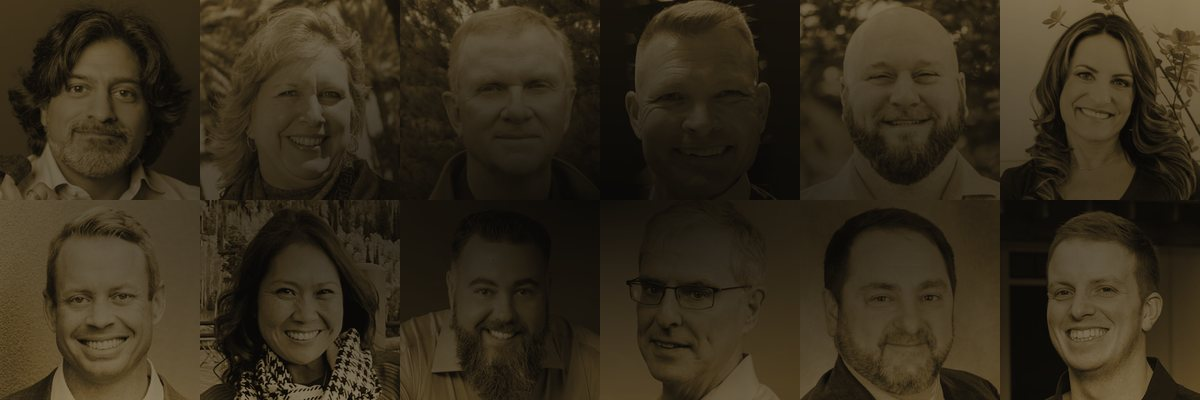
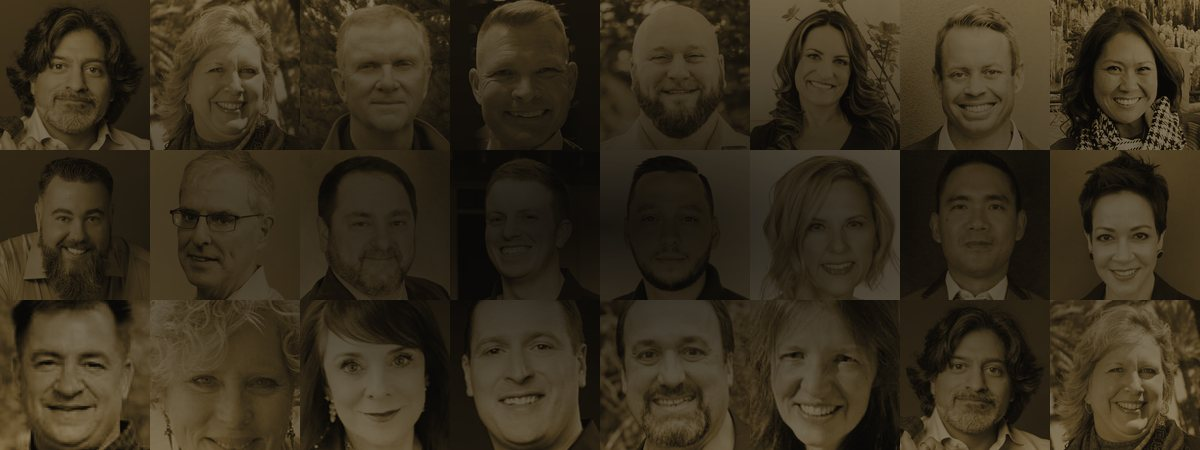
Double header to 24 members; real full-height host photos, name/title left
- Header collage rebuilt as an 8x3 grid (24 real Hardy Club members),
  gold-on-black duotone (header now 600x225).
- Event host placeholders replaced with real member portraits, shown
  full-height and flush to the card's right edge.
- Host name/title moved back to the left column as two lines (no "Hosted by"
  eyebrow). Added host portrait crops in hc-hosts/ + source photos in
  hc-members/.

diff --git a/bmcc-weekly-email.html b/bmcc-weekly-email.html
@@ -40,8 +40,9 @@
   EVENT CARD FIELDS (make the card a repeater/loop):
     day_date_time (e.g. "Tue · Jul 8 · 12:00 PM ET"), title, description,
     rsvp_url, host_name, host_title, host_photo_url
-    → host_photo_url is a square headshot shown at 150x150 (supply 2x = 320x320),
-      sits on the RIGHT of the card, vertically centered. NOT a circle.
+    → host_photo_url is a portrait shown FULL-HEIGHT, flush to the card's right
+      edge (background-cover, ~3:4, supply 390x520+). host_name/host_title render
+      as two lines in the LEFT column. NOT a circle.
   ============================================================================
 -->
 <!DOCTYPE html>
@@ -112,15 +113,15 @@
         </table>
 
         <!-- ===================== [2] HEADER — HARDY CLUB (photo collage) ===================== -->
-        <!-- Bulletproof background image: collage of member headshots behind the mark.
-             DEV: header-collage.jpg is 1200x400 (displayed 600x200). The <v:image>/<v:rect>
+        <!-- Bulletproof background image: 24-member headshot collage behind the mark.
+             DEV: header-collage.jpg is 1200x450 (displayed 600x225). The <v:image>/<v:rect>
              MSO block is the Outlook fallback — keep both the `background` attr and the VML. -->
         <table role="presentation" width="600" cellpadding="0" cellspacing="0" border="0" class="email-container" style="width:600px; max-width:600px;">
           <tr>
-            <td background="https://fnxstudio.github.io/darren-hardy/header-collage.jpg" bgcolor="#0f0d14" valign="middle" height="200" style="background-image:url('https://fnxstudio.github.io/darren-hardy/header-collage.jpg'); background-position:center center; background-size:cover; background-color:#0f0d14;">
+            <td background="https://fnxstudio.github.io/darren-hardy/header-collage.jpg" bgcolor="#0f0d14" valign="middle" height="225" style="background-image:url('https://fnxstudio.github.io/darren-hardy/header-collage.jpg'); background-position:center center; background-size:cover; background-color:#0f0d14;">
               <!--[if mso]>
-              <v:image xmlns:v="urn:schemas-microsoft-com:vml" fill="true" stroke="false" style="width:600px;height:200px;" src="https://fnxstudio.github.io/darren-hardy/header-collage.jpg" />
-              <v:rect xmlns:v="urn:schemas-microsoft-com:vml" fill="false" stroke="false" style="position:absolute;width:600px;height:200px;top:0;left:0;">
+              <v:image xmlns:v="urn:schemas-microsoft-com:vml" fill="true" stroke="false" style="width:600px;height:225px;" src="https://fnxstudio.github.io/darren-hardy/header-collage.jpg" />
+              <v:rect xmlns:v="urn:schemas-microsoft-com:vml" fill="false" stroke="false" style="position:absolute;width:600px;height:225px;top:0;left:0;">
               <v:textbox inset="0,0,0,0"><![endif]-->
               <div>
                 <table role="presentation" width="100%" cellpadding="0" cellspacing="0" border="0">
@@ -196,23 +197,28 @@
             <td class="px" style="padding:14px 40px;">
               <table role="presentation" width="100%" cellpadding="0" cellspacing="0" border="0" style="background-color:#f5f5f5; border-left:3px solid #c9a96a;">
                 <tr>
-                  <!-- DETAILS (left) -->
-                  <td class="stack" valign="top" style="padding:20px 22px; font-family:'Inter',Arial,Helvetica,sans-serif;">
+                  <!-- DETAILS (left) — host name/title (2 lines) lives here -->
+                  <td class="stack" valign="top" style="padding:22px 24px 22px 22px; font-family:'Inter',Arial,Helvetica,sans-serif;">
                     <div style="font-size:11px; font-weight:700; letter-spacing:0.14em; text-transform:uppercase; color:#9a7a33;">Tue &middot; Jul 8 &middot; 12:00 PM ET</div>
                     <div style="font-size:18px; font-weight:700; color:#141414; line-height:1.3; padding-top:8px;">Weekly Momentum Call</div>
                     <div style="font-size:14px; line-height:1.6; color:#444444; padding-top:10px;">Kick off the week with the one focus that will move your business most — open to every Hardy Club member.</div>
-                    <div style="padding-top:18px;">
+                    <div style="padding-top:16px;">
+                      <div style="font-size:15px; font-weight:700; color:#141414;">Dave Koepsell</div>
+                      <div style="font-size:12px; font-weight:500; color:#6a6a6a; padding-top:2px;">Hardy Club Member</div>
+                    </div>
+                    <div style="padding-top:16px;">
                       <a href="{{ event.rsvp_url }}" style="display:inline-block; padding:11px 20px; border:1px solid #c9a96a; font-family:'Inter',Arial,Helvetica,sans-serif; font-size:11px; font-weight:700; letter-spacing:0.2em; text-transform:uppercase; color:#9a7a33; white-space:nowrap; text-decoration:none;">RSVP &nbsp;&rarr;</a>
                     </div>
                   </td>
-                  <!-- HOST PHOTO + hosted-by (right; evens the two sides) -->
-                  <td class="stack" width="210" valign="top" align="center" style="width:210px; padding:20px 18px;">
-                    <img src="https://placehold.co/360x360/e9e4f2/9a7a33?text=Host+Photo" width="180" height="180" alt="Darren Hardy" style="display:block; width:180px; height:180px; border-radius:4px; object-fit:cover; margin:0 auto;">
-                    <div style="padding-top:14px; text-align:center;">
-                      <div style="font-size:10px; font-weight:600; letter-spacing:0.2em; text-transform:uppercase; color:#9a7a33;">Hosted by</div>
-                      <div style="font-size:15px; font-weight:700; color:#141414; padding-top:3px;">Darren Hardy</div>
-                      <div style="font-size:12px; font-weight:500; color:#6a6a6a; padding-top:2px;">Founder, Hardy Club</div>
-                    </div>
+                  <!-- HOST PHOTO — full height, flush to the right edge -->
+                  <td class="stack" width="190" valign="top" background="https://fnxstudio.github.io/darren-hardy/hc-hosts/host-dave.jpg"
+                      style="width:190px; padding:0; background-image:url('https://fnxstudio.github.io/darren-hardy/hc-hosts/host-dave.jpg'); background-position:center top; background-size:cover; background-color:#e9e4f2;">
+                    <!--[if mso]>
+                    <v:rect xmlns:v="urn:schemas-microsoft-com:vml" stroke="false" style="width:190px;height:300px;">
+                      <v:fill type="frame" src="https://fnxstudio.github.io/darren-hardy/hc-hosts/host-dave.jpg" origin="0.5,0" position="0.5,0" />
+                    </v:rect>
+                    <![endif]-->
+                    <div style="min-height:260px; font-size:0; line-height:0;">&nbsp;</div>
                   </td>
                 </tr>
               </table>
@@ -225,22 +231,27 @@
             <td class="px" style="padding:14px 40px 8px 40px;">
               <table role="presentation" width="100%" cellpadding="0" cellspacing="0" border="0" style="background-color:#f5f5f5; border-left:3px solid #c9a96a;">
                 <tr>
-                  <td class="stack" valign="top" style="padding:20px 22px; font-family:'Inter',Arial,Helvetica,sans-serif;">
+                  <td class="stack" valign="top" style="padding:22px 24px 22px 22px; font-family:'Inter',Arial,Helvetica,sans-serif;">
                     <div style="font-size:11px; font-weight:700; letter-spacing:0.14em; text-transform:uppercase; color:#9a7a33;">Thu &middot; Jul 10 &middot; 2:00 PM ET</div>
                     <div style="font-size:18px; font-weight:700; color:#141414; line-height:1.3; padding-top:8px;">Open Q&amp;A: Ask Me Anything</div>
                     <div style="font-size:14px; line-height:1.6; color:#444444; padding-top:10px;">Bring any question — strategy, mindset, or execution — and get a straight answer live.</div>
-                    <div style="padding-top:18px;">
+                    <div style="padding-top:16px;">
+                      <div style="font-size:15px; font-weight:700; color:#141414;">Kristi Lopez</div>
+                      <div style="font-size:12px; font-weight:500; color:#6a6a6a; padding-top:2px;">Hardy Club Member</div>
+                    </div>
+                    <div style="padding-top:16px;">
                       <a href="#" style="display:inline-block; padding:11px 20px; border:1px solid #c9a96a; font-family:'Inter',Arial,Helvetica,sans-serif; font-size:11px; font-weight:700; letter-spacing:0.2em; text-transform:uppercase; color:#9a7a33; white-space:nowrap; text-decoration:none;">RSVP &nbsp;&rarr;</a>
                     </div>
                   </td>
-                  <!-- HOST PHOTO + hosted-by (right; evens the two sides) -->
-                  <td class="stack" width="210" valign="top" align="center" style="width:210px; padding:20px 18px;">
-                    <img src="https://placehold.co/360x360/e9e4f2/9a7a33?text=Host+Photo" width="180" height="180" alt="Darren Hardy" style="display:block; width:180px; height:180px; border-radius:4px; object-fit:cover; margin:0 auto;">
-                    <div style="padding-top:14px; text-align:center;">
-                      <div style="font-size:10px; font-weight:600; letter-spacing:0.2em; text-transform:uppercase; color:#9a7a33;">Hosted by</div>
-                      <div style="font-size:15px; font-weight:700; color:#141414; padding-top:3px;">Darren Hardy</div>
-                      <div style="font-size:12px; font-weight:500; color:#6a6a6a; padding-top:2px;">Founder, Hardy Club</div>
-                    </div>
+                  <!-- HOST PHOTO — full height, flush to the right edge -->
+                  <td class="stack" width="190" valign="top" background="https://fnxstudio.github.io/darren-hardy/hc-hosts/host-kristi.jpg"
+                      style="width:190px; padding:0; background-image:url('https://fnxstudio.github.io/darren-hardy/hc-hosts/host-kristi.jpg'); background-position:center top; background-size:cover; background-color:#e9e4f2;">
+                    <!--[if mso]>
+                    <v:rect xmlns:v="urn:schemas-microsoft-com:vml" stroke="false" style="width:190px;height:300px;">
+                      <v:fill type="frame" src="https://fnxstudio.github.io/darren-hardy/hc-hosts/host-kristi.jpg" origin="0.5,0" position="0.5,0" />
+                    </v:rect>
+                    <![endif]-->
+                    <div style="min-height:260px; font-size:0; line-height:0;">&nbsp;</div>
                   </td>
                 </tr>
               </table>
@@ -280,22 +291,27 @@
             <td class="px" style="padding:14px 40px;">
               <table role="presentation" width="100%" cellpadding="0" cellspacing="0" border="0" style="background-color:#f5f5f5; border-left:3px solid #8B5DC4;">
                 <tr>
-                  <td class="stack" valign="top" style="padding:20px 22px; font-family:'Inter',Arial,Helvetica,sans-serif;">
+                  <td class="stack" valign="top" style="padding:22px 24px 22px 22px; font-family:'Inter',Arial,Helvetica,sans-serif;">
                     <div style="font-size:11px; font-weight:700; letter-spacing:0.14em; text-transform:uppercase; color:#6E3DA6;">Wed &middot; Jul 9 &middot; 1:00 PM ET</div>
                     <div style="font-size:18px; font-weight:700; color:#141414; line-height:1.3; padding-top:8px;">Hot Seat: Scaling Past the Founder Bottleneck</div>
                     <div style="font-size:14px; line-height:1.6; color:#444444; padding-top:10px;">Bring your #1 constraint. Three members get a live diagnosis and a 90-day plan on the spot.</div>
-                    <div style="padding-top:18px;">
+                    <div style="padding-top:16px;">
+                      <div style="font-size:15px; font-weight:700; color:#141414;">Michael Soler</div>
+                      <div style="font-size:12px; font-weight:500; color:#6a6a6a; padding-top:2px;">Collective Member</div>
+                    </div>
+                    <div style="padding-top:16px;">
                       <a href="{{ event.rsvp_url }}" style="display:inline-block; padding:11px 20px; border:1px solid #8B5DC4; font-family:'Inter',Arial,Helvetica,sans-serif; font-size:11px; font-weight:700; letter-spacing:0.2em; text-transform:uppercase; color:#6E3DA6; white-space:nowrap; text-decoration:none;">RSVP &nbsp;&rarr;</a>
                     </div>
                   </td>
-                  <!-- HOST PHOTO + hosted-by (right; evens the two sides) -->
-                  <td class="stack" width="210" valign="top" align="center" style="width:210px; padding:20px 18px;">
-                    <img src="https://placehold.co/360x360/ece7f5/6E3DA6?text=Host+Photo" width="180" height="180" alt="Darren Hardy" style="display:block; width:180px; height:180px; border-radius:4px; object-fit:cover; margin:0 auto;">
-                    <div style="padding-top:14px; text-align:center;">
-                      <div style="font-size:10px; font-weight:600; letter-spacing:0.2em; text-transform:uppercase; color:#6E3DA6;">Hosted by</div>
-                      <div style="font-size:15px; font-weight:700; color:#141414; padding-top:3px;">Darren Hardy</div>
-                      <div style="font-size:12px; font-weight:500; color:#6a6a6a; padding-top:2px;">Founder, Hardy Club</div>
-                    </div>
+                  <!-- HOST PHOTO — full height, flush to the right edge -->
+                  <td class="stack" width="190" valign="top" background="https://fnxstudio.github.io/darren-hardy/hc-hosts/host-michael.jpg"
+                      style="width:190px; padding:0; background-image:url('https://fnxstudio.github.io/darren-hardy/hc-hosts/host-michael.jpg'); background-position:center top; background-size:cover; background-color:#ece7f5;">
+                    <!--[if mso]>
+                    <v:rect xmlns:v="urn:schemas-microsoft-com:vml" stroke="false" style="width:190px;height:300px;">
+                      <v:fill type="frame" src="https://fnxstudio.github.io/darren-hardy/hc-hosts/host-michael.jpg" origin="0.5,0" position="0.5,0" />
+                    </v:rect>
+                    <![endif]-->
+                    <div style="min-height:260px; font-size:0; line-height:0;">&nbsp;</div>
                   </td>
                 </tr>
               </table>
@@ -308,22 +324,27 @@
             <td class="px" style="padding:14px 40px 8px 40px;">
               <table role="presentation" width="100%" cellpadding="0" cellspacing="0" border="0" style="background-color:#f5f5f5; border-left:3px solid #8B5DC4;">
                 <tr>
-                  <td class="stack" valign="top" style="padding:20px 22px; font-family:'Inter',Arial,Helvetica,sans-serif;">
+                  <td class="stack" valign="top" style="padding:22px 24px 22px 22px; font-family:'Inter',Arial,Helvetica,sans-serif;">
                     <div style="font-size:11px; font-weight:700; letter-spacing:0.14em; text-transform:uppercase; color:#6E3DA6;">Fri &middot; Jul 11 &middot; 9:00 AM ET</div>
                     <div style="font-size:18px; font-weight:700; color:#141414; line-height:1.3; padding-top:8px;">Member Roundtable: Q3 Planning</div>
                     <div style="font-size:14px; line-height:1.6; color:#444444; padding-top:10px;">Small-group breakout to pressure-test your next-quarter priorities with fellow operators.</div>
-                    <div style="padding-top:18px;">
+                    <div style="padding-top:16px;">
+                      <div style="font-size:15px; font-weight:700; color:#141414;">Heather Roxburgh</div>
+                      <div style="font-size:12px; font-weight:500; color:#6a6a6a; padding-top:2px;">Collective Member</div>
+                    </div>
+                    <div style="padding-top:16px;">
                       <a href="#" style="display:inline-block; padding:11px 20px; border:1px solid #8B5DC4; font-family:'Inter',Arial,Helvetica,sans-serif; font-size:11px; font-weight:700; letter-spacing:0.2em; text-transform:uppercase; color:#6E3DA6; white-space:nowrap; text-decoration:none;">RSVP &nbsp;&rarr;</a>
                     </div>
                   </td>
-                  <!-- HOST PHOTO + hosted-by (right; evens the two sides) -->
-                  <td class="stack" width="210" valign="top" align="center" style="width:210px; padding:20px 18px;">
-                    <img src="https://placehold.co/360x360/ece7f5/6E3DA6?text=Host+Photo" width="180" height="180" alt="Guest Facilitator" style="display:block; width:180px; height:180px; border-radius:4px; object-fit:cover; margin:0 auto;">
-                    <div style="padding-top:14px; text-align:center;">
-                      <div style="font-size:10px; font-weight:600; letter-spacing:0.2em; text-transform:uppercase; color:#6E3DA6;">Hosted by</div>
-                      <div style="font-size:15px; font-weight:700; color:#141414; padding-top:3px;">Guest Facilitator</div>
-                      <div style="font-size:12px; font-weight:500; color:#6a6a6a; padding-top:2px;">The Collective</div>
-                    </div>
+                  <!-- HOST PHOTO — full height, flush to the right edge -->
+                  <td class="stack" width="190" valign="top" background="https://fnxstudio.github.io/darren-hardy/hc-hosts/host-heather.jpg"
+                      style="width:190px; padding:0; background-image:url('https://fnxstudio.github.io/darren-hardy/hc-hosts/host-heather.jpg'); background-position:center top; background-size:cover; background-color:#ece7f5;">
+                    <!--[if mso]>
+                    <v:rect xmlns:v="urn:schemas-microsoft-com:vml" stroke="false" style="width:190px;height:300px;">
+                      <v:fill type="frame" src="https://fnxstudio.github.io/darren-hardy/hc-hosts/host-heather.jpg" origin="0.5,0" position="0.5,0" />
+                    </v:rect>
+                    <![endif]-->
+                    <div style="min-height:260px; font-size:0; line-height:0;">&nbsp;</div>
                   </td>
                 </tr>
               </table>
